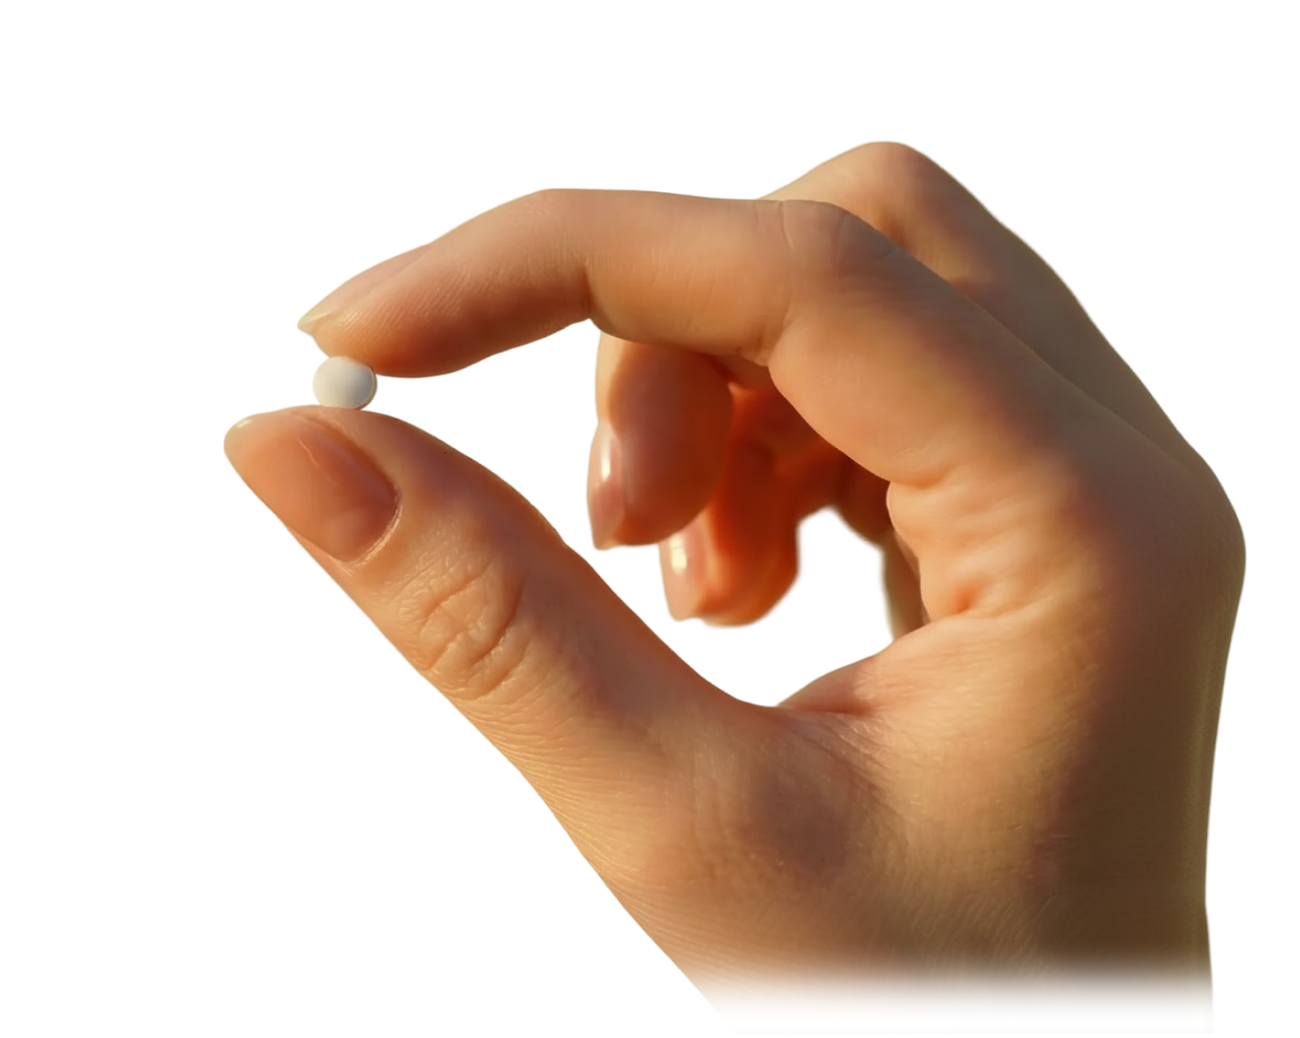
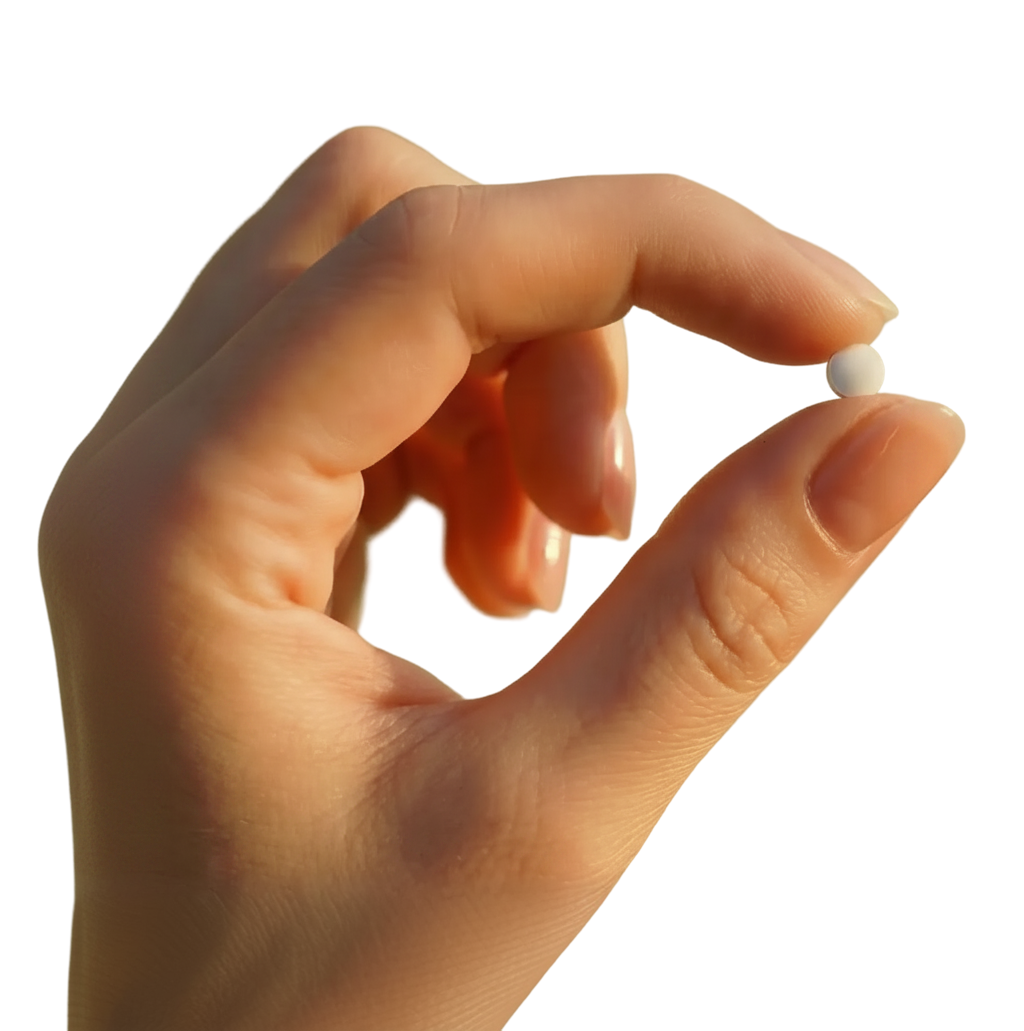
fix(wegovy-pills): use clean photo fills instead of text-baked frame renders
Replace the full-frame Figma renders (which had headings/labels baked into
the image) with clean image fills, so all copy renders as real HTML text in
the site fonts (Gilroy / Clearface italic / Outfit). Remaps the explainer
cards to the correct product/person cutouts and switches them to object-contain.

diff --git a/components/wegovy/WhatIsPill.tsx b/components/wegovy/WhatIsPill.tsx
@@ -17,19 +17,19 @@ type Card = {
 const CARDS: Card[] = [
   {
     title: "The first of its kind",
-    body: "is an FDA-approved semaglutide in a pill for weight loss.",
-    image: "/assets/wegovy/what-pills.png",
+    body: "An FDA-approved semaglutide in a once-daily pill for weight loss.",
+    image: "/assets/wegovy/what-bottle.png",
     tag: "Powered by SNAC technology",
   },
   {
     title: "Unpacking Snac",
     body: "The SNAC molecule used by Novo Nordisk™ is the key to the GLP-1 pill.",
-    image: "/assets/wegovy/what-snac.png",
+    image: "/assets/wegovy/what-pills.png",
   },
   {
     title: "Real results",
     body: "Lose up to 20% of your body weight without the shot.",
-    image: "/assets/wegovy/what-results.png",
+    image: "/assets/wegovy/what-man.png",
     badge: { label: "Year 1", value: "↓ 32 lbs" },
   },
   {
@@ -62,14 +62,14 @@ export default function WhatIsPill() {
           {CARDS.map((c, i) => (
             <Reveal as="div" key={c.title} delay={i * 80} className="h-full">
               <article className="flex h-full flex-col overflow-hidden rounded-2xl bg-[#f7f9f2]">
-                <div className="relative h-[230px] w-full overflow-hidden">
+                <div className="relative h-[230px] w-full overflow-hidden bg-[#eef2e6]">
                   {c.image ? (
                     <Image
                       src={c.image}
                       alt={c.title}
                       fill
                       sizes="(max-width:1024px) 50vw, 25vw"
-                      className="object-cover"
+                      className="object-contain p-4"
                     />
                   ) : (
                     <div

diff --git a/components/wegovy/HowItWorks.tsx b/components/wegovy/HowItWorks.tsx
@@ -21,14 +21,14 @@ export default function HowItWorks() {
       className="relative w-full overflow-hidden bg-[#dfe7d4]"
     >
       <Image
-        src="/assets/wegovy/how-bg.png"
+        src="/assets/wegovy/how-pill.png"
         alt=""
         fill
         sizes="100vw"
-        className="object-cover"
+        className="object-cover object-center opacity-90"
         aria-hidden
       />
-      <div className="absolute inset-0 bg-[#142e2a]/10" aria-hidden />
+      <div className="absolute inset-0 bg-[#dfe7d4]/55" aria-hidden />
 
       <div className="relative z-10 mx-auto w-full max-w-[1100px] px-6 py-16 text-center md:px-10 md:py-24">
         <Reveal as="div" className="mx-auto max-w-[760px]">

diff --git a/components/wegovy/WhyChoose.tsx b/components/wegovy/WhyChoose.tsx
@@ -20,7 +20,7 @@ export default function WhyChoose() {
       className="relative w-full overflow-hidden"
     >
       <Image
-        src="/assets/wegovy/why-bg.png"
+        src="/assets/wegovy/why-runner.png"
         alt="Man running outdoors"
         fill
         sizes="100vw"
